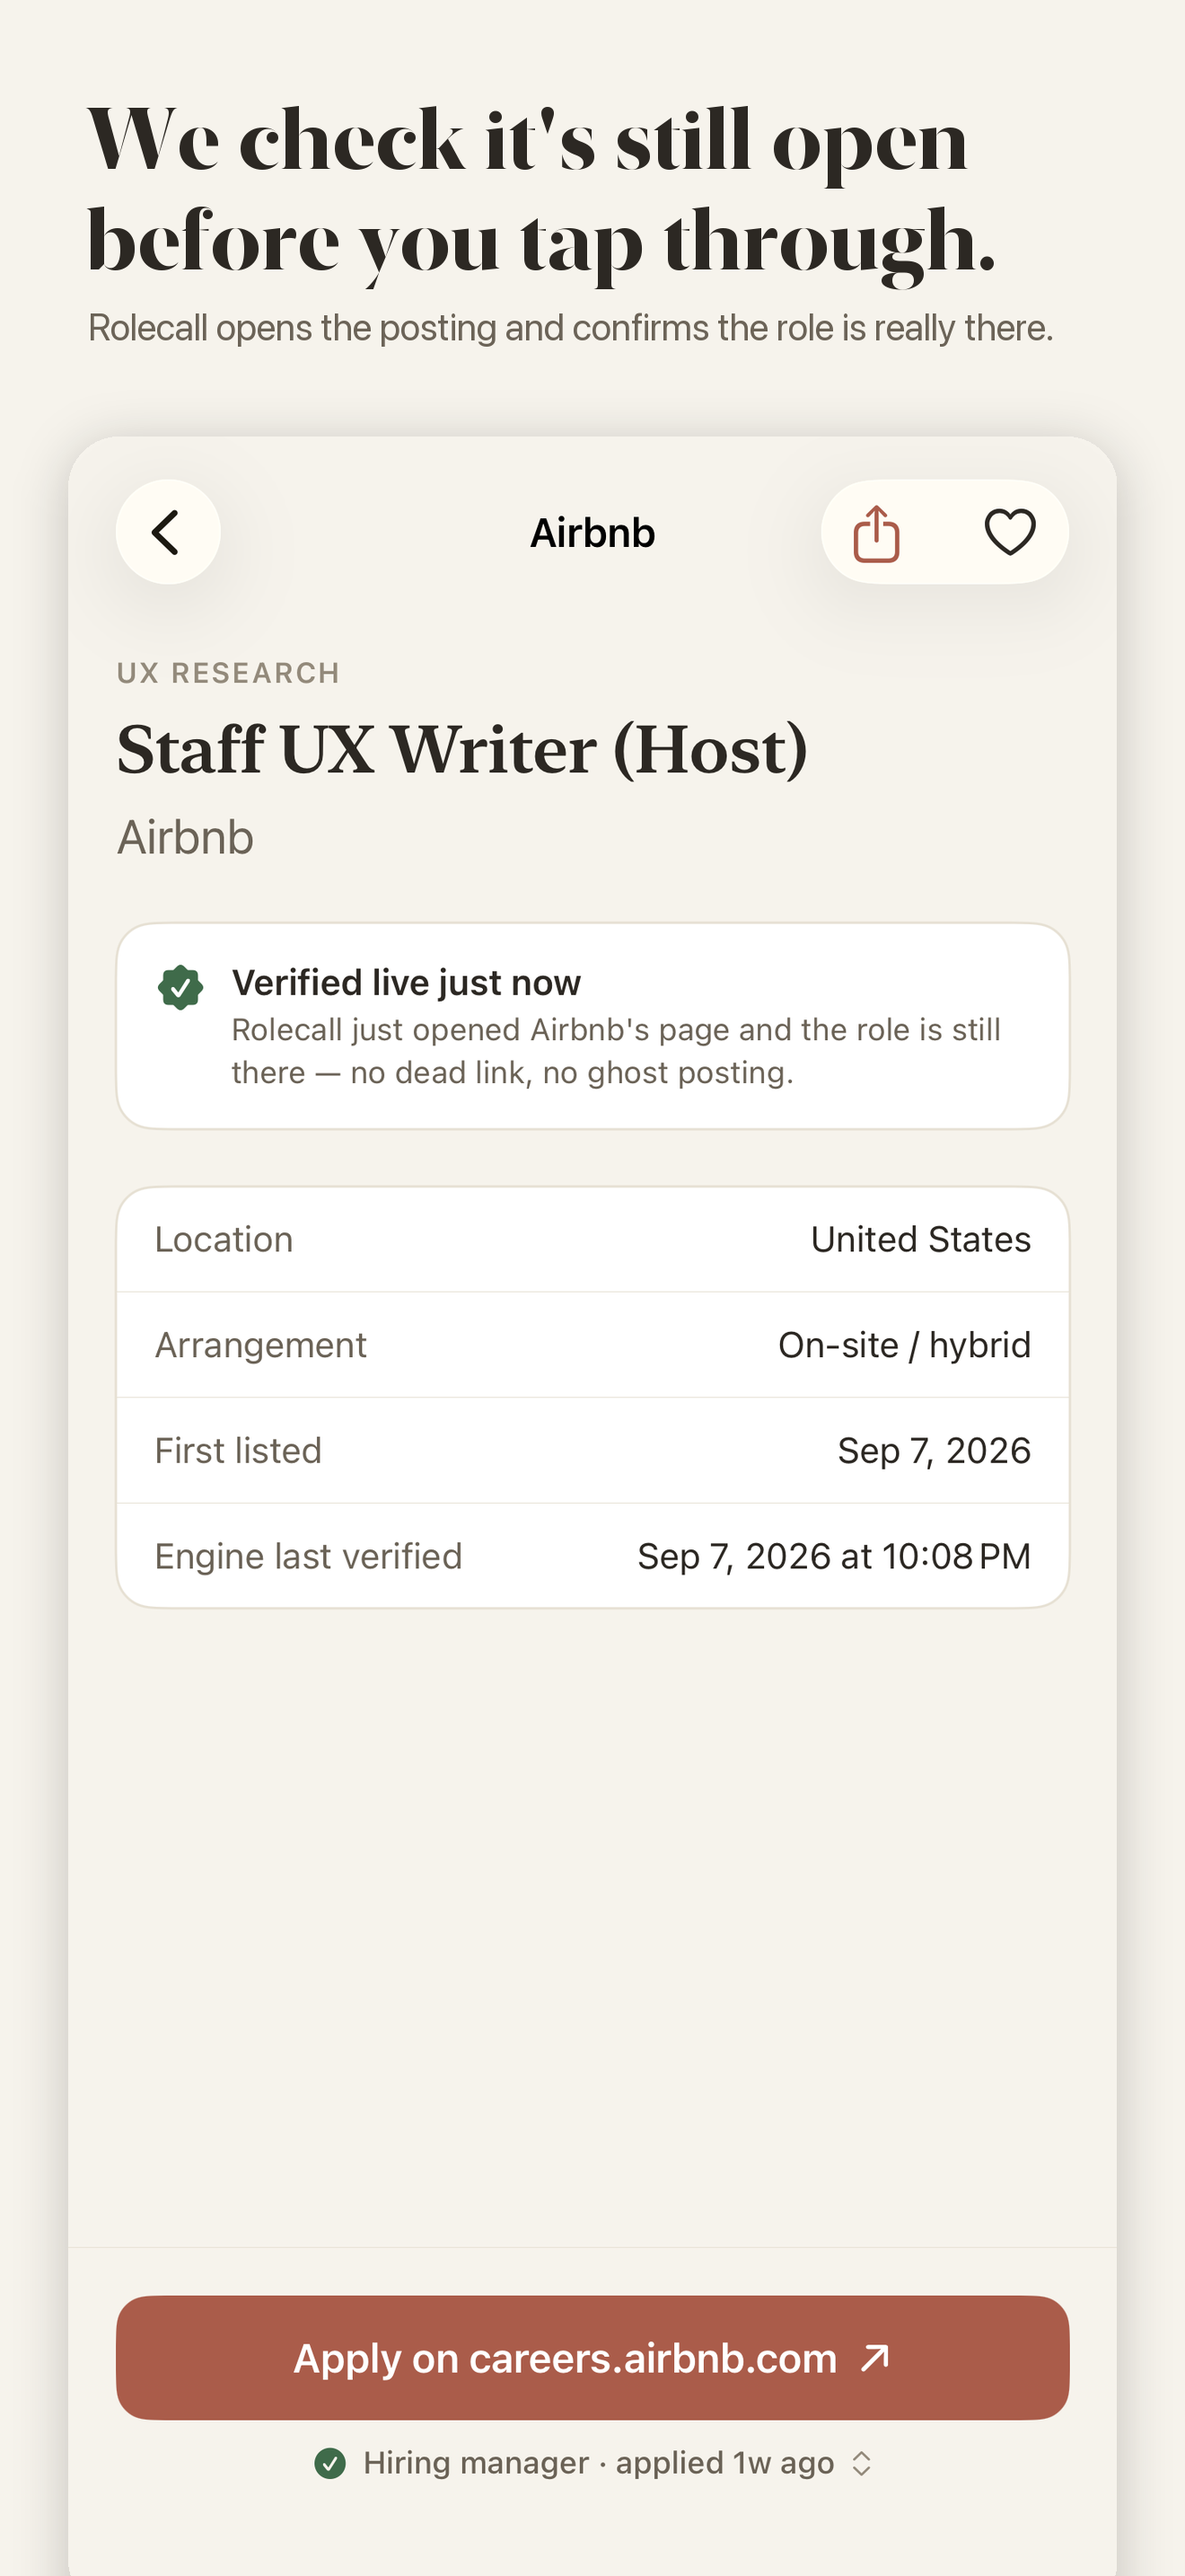
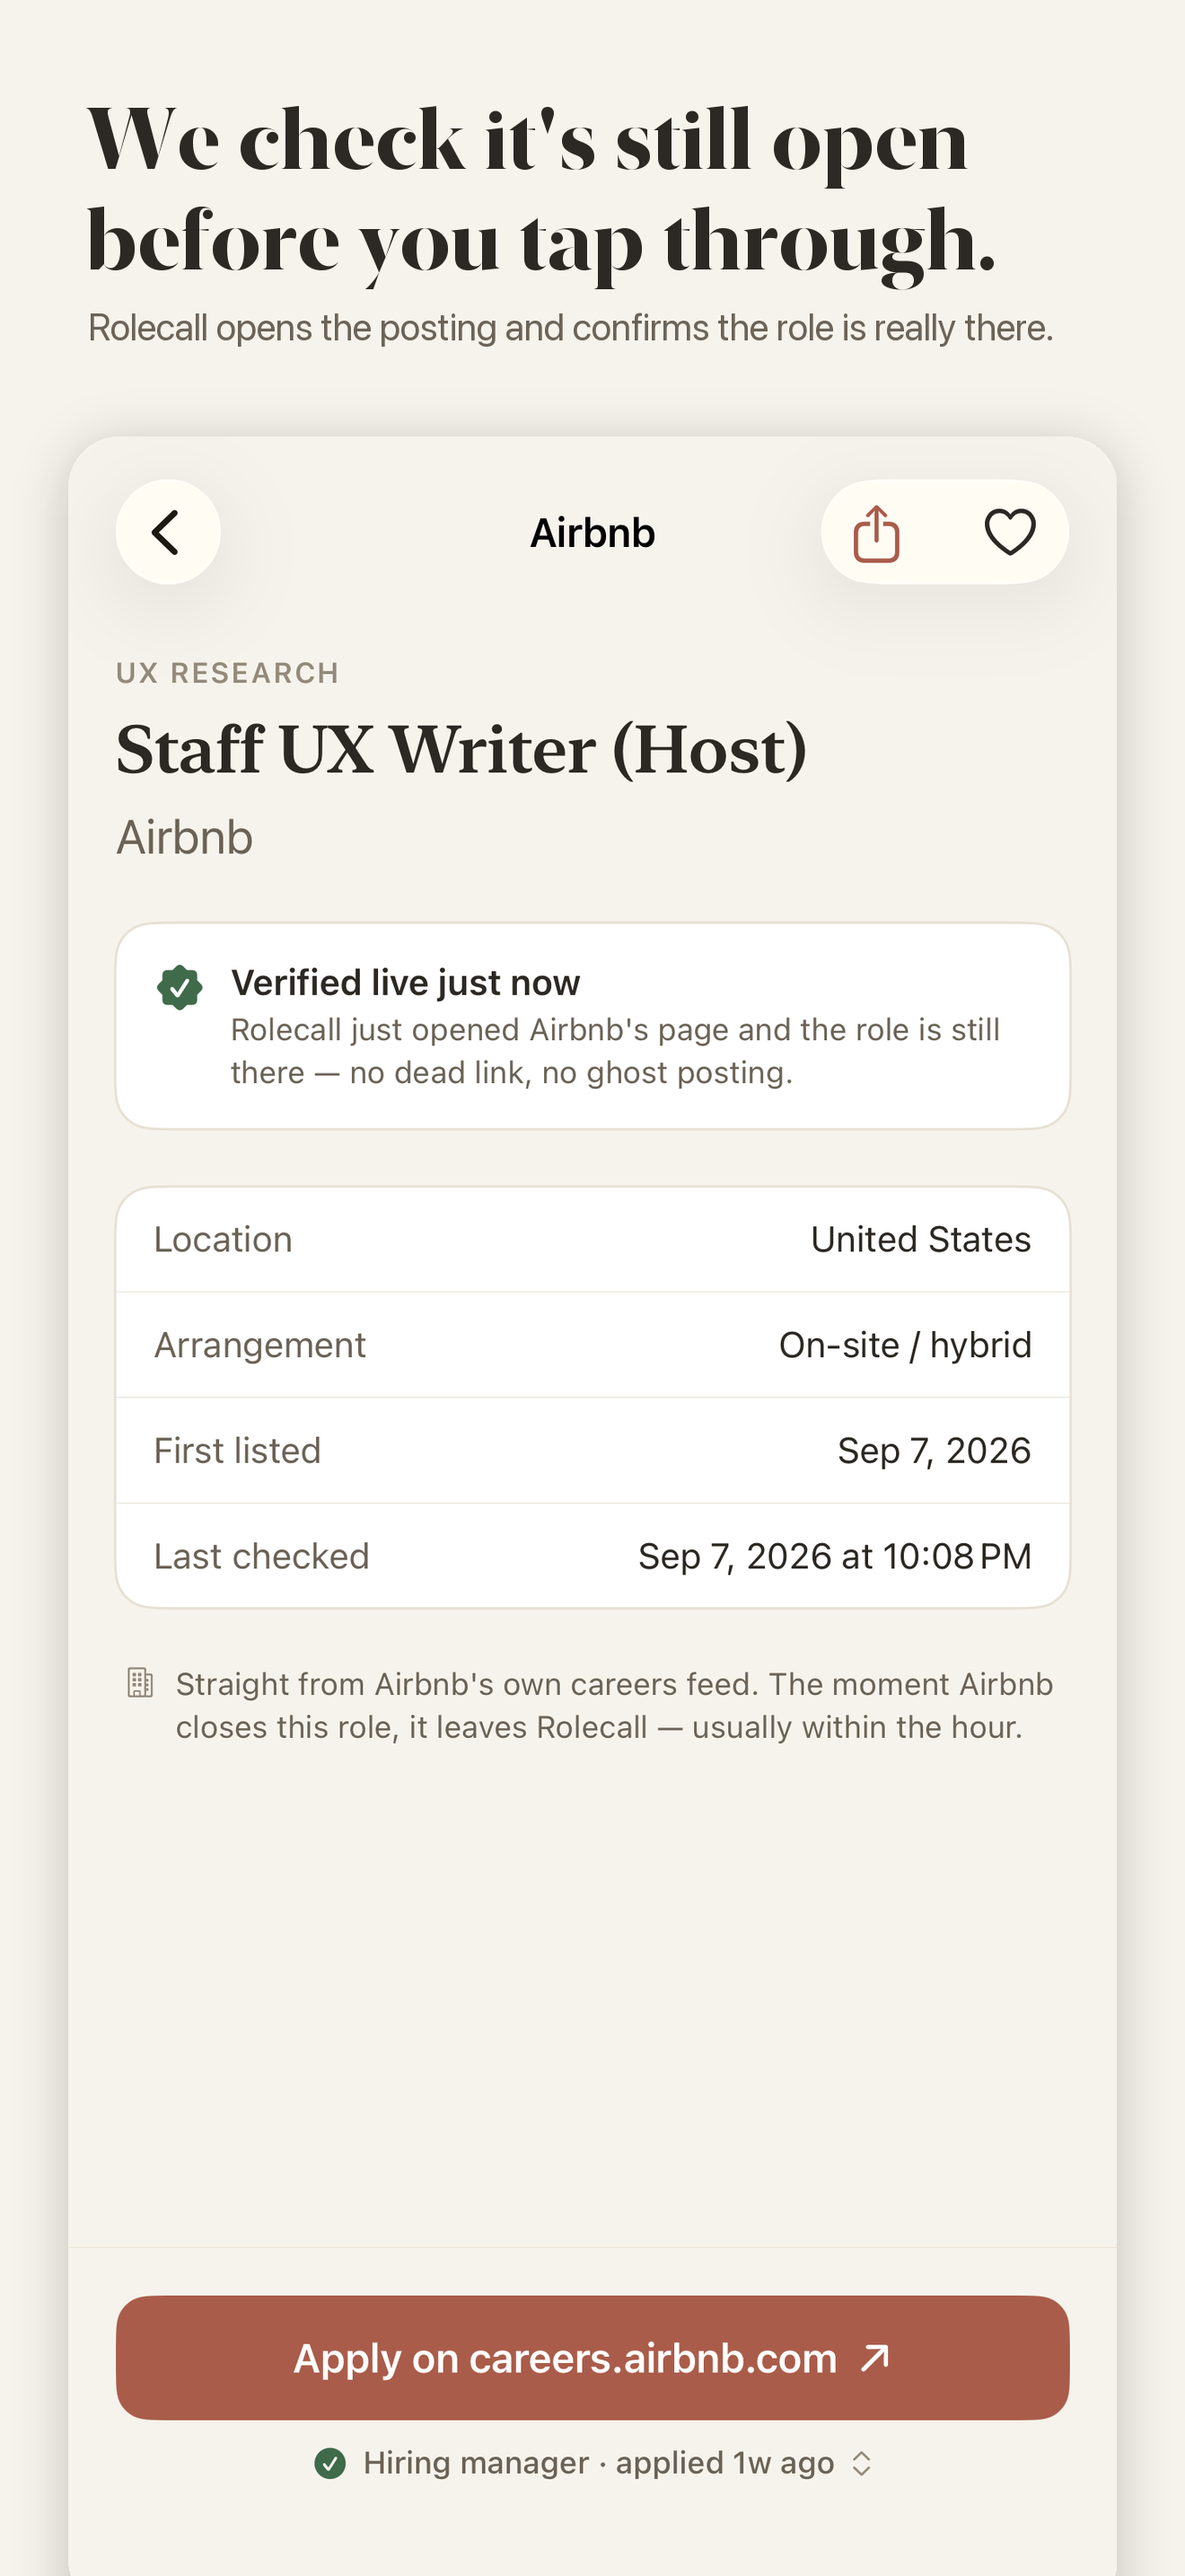
UI polish pass: quieter lists, contextual empties, source-of-truth note
A refinement pass on the reading experience, aligned to the calm-utility North
Star. No structural change; the heart stays as the save gesture.

- Saved / Applied lists no longer repeat the "saved" / "APPLIED" marker on
  every row — in those lists it's redundant. RoleRow gains showsStatusBadge
  (default true, so the board still flags roles you've touched). The stage
  line ("offer · 4d ago") already carries the status there.
- EmptyStateView takes a contextual icon: wifi.slash when the board is
  unreachable, text.magnifyingglass for a search miss, tray for no
  applications, and so on — instead of one generic dashed circle. Rendered
  hierarchical.
- RoleDetailView: a one-line "straight from {company}'s own careers feed …"
  note under the facts card — restates the board's promise on the page you act
  from, and fills the space a description-free listing leaves.
- De-jargoned "Engine last verified" -> "Last checked"; "the engine last saw
  this role" -> "Rolecall last confirmed this role".
- NEW badge is now a hairline capsule so it reads as a deliberate marker, not
  stray text; company name truncates rather than shoving the family tag
  off-screen at large Dynamic Type.
- Row dividers track the monogram tile as it scales with Dynamic Type
  (@ScaledMetric) instead of a fixed 53pt inset; Saved/Applied lists now match
  the board's text-aligned divider.
- Haptic on stage change in RoleDetailView (matches the board); apply-bar
[…]

diff --git a/ios/Rolecall/Views/RoleDetailView.swift b/ios/Rolecall/Views/RoleDetailView.swift
@@ -18,6 +18,7 @@ struct RoleDetailView: View {
                 titleBlock
                 freshnessBlock
                 factsBlock
+                sourceNote
                 Spacer(minLength: 8)
             }
             .padding(Theme.Metric.gutter)
@@ -121,7 +122,7 @@ struct RoleDetailView: View {
             factRow("First listed", role.firstSeen.formatted(date: .abbreviated, time: .omitted))
             if let verified = role.lastVerified {
                 Divider().overlay(Theme.Palette.hairline)
-                factRow("Engine last verified", verified.formatted(date: .abbreviated, time: .shortened))
+                factRow("Last checked", verified.formatted(date: .abbreviated, time: .shortened))
             }
         }
         .background(Theme.Palette.surface)
@@ -130,6 +131,23 @@ struct RoleDetailView: View {
             RoundedRectangle(cornerRadius: Theme.Metric.cardRadius, style: .continuous)
                 .stroke(Theme.Palette.hairline, lineWidth: 1)
         )
+    }
+
+    /// A quiet reminder of where this listing comes from and why it can be trusted —
+    /// the same promise the board makes, restated on the page you act from.
+    private var sourceNote: some View {
+        HStack(alignment: .top, spacing: 8) {
+            Image(systemName: "building.2")
+                .font(.caption2)
+                .foregroundStyle(Theme.Palette.inkTertiary)
+                .accessibilityHidden(true)
+            Text("Straight from \(role.company)'s own careers feed. The moment \(role.company) closes this role, it leaves Rolecall — usually within the hour.")
+                .font(.footnote)
+                .foregroundStyle(Theme.Palette.inkSecondary)
+                .fixedSize(horizontal: false, vertical: true)
+        }
+        .padding(.horizontal, 4)
+        .accessibilityElement(children: .combine)
     }
 
     private func factRow(_ label: String, _ value: String) -> some View {
@@ -210,7 +228,10 @@ struct RoleDetailView: View {
     private var stageBinding: Binding<ApplicationStage> {
         Binding(
             get: { status?.application?.stage ?? .applied },
-            set: { newStage in tracked.updateApplication(for: role) { $0.stage = newStage } }
+            set: { newStage in
+                Haptics.selection()
+                tracked.updateApplication(for: role) { $0.stage = newStage }
+            }
         )
     }
 
@@ -243,7 +264,8 @@ struct RoleDetailView: View {
         if known.contains(where: host.hasSuffix) {
             return role.company
         }
-        return host.replacingOccurrences(of: "www.", with: "")
+        let clean = host.replacingOccurrences(of: "www.", with: "")
+        return clean.contains(".") ? clean : "the company site"
     }
 
     private var statusIcon: String {
@@ -279,7 +301,7 @@ struct RoleDetailView: View {
         case .mayHaveClosed:
             return "The page 404'd or bounced to a careers index. Tap to check on the company site."
         case .couldNotCheck:
-            return "You may be offline. The engine last saw this role "
+            return "You may be offline. Rolecall last confirmed this role "
                 + Freshness.compactAgo(since: role.freshnessDate, relativeTo: now)
                 + ". Tap to check again."
         case .none:

diff --git a/ios/Rolecall/Views/RoleRow.swift b/ios/Rolecall/Views/RoleRow.swift
@@ -7,6 +7,10 @@ struct RoleRow: View {
     var now: Date = Date()
     var status: RoleStatus? = nil
     var isNew: Bool = false
+    /// The board shows a "saved" / "applied" marker so you can spot roles you've already
+    /// touched. In the Saved and Applied lists every row is that status, so the marker is
+    /// redundant noise — those lists pass `false`.
+    var showsStatusBadge: Bool = true
 
     @ScaledMetric(relativeTo: .body) private var vPadding: CGFloat = 15
     @ScaledMetric(relativeTo: .body) private var tile: CGFloat = 40
@@ -20,17 +24,26 @@ struct RoleRow: View {
                     if isNew {
                         Text("NEW")
                             .font(.caption2.weight(.bold))
-                            .foregroundStyle(Theme.Palette.accent)
                             .tracking(0.5)
+                            .foregroundStyle(Theme.Palette.accent)
+                            .padding(.horizontal, 5)
+                            .padding(.vertical, 1.5)
+                            .overlay(
+                                Capsule(style: .continuous)
+                                    .stroke(Theme.Palette.accent.opacity(0.35), lineWidth: 1)
+                            )
+                            .accessibilityHidden(true)
                     }
                     Text(role.company)
                         .font(.subheadline.weight(.semibold))
                         .foregroundStyle(Theme.Palette.inkSecondary)
+                        .lineLimit(1)
                     Spacer(minLength: 6)
-                    statusAccessory
+                    if showsStatusBadge { statusAccessory }
                     Text(role.family.shortLabel)
                         .font(.caption2.weight(.medium))
                         .foregroundStyle(Theme.Palette.inkTertiary)
+                        .fixedSize()
                 }
 
                 Text(role.title)

diff --git a/ios/Rolecall/Views/TrackedRolesView.swift b/ios/Rolecall/Views/TrackedRolesView.swift
@@ -11,6 +11,9 @@ struct TrackedRolesView: View {
     @EnvironmentObject private var tracked: TrackedRoles
     @State private var now = Date()
 
+    /// Matches RoleListView: divider starts where the row text starts.
+    @ScaledMetric(relativeTo: .body) private var monogramTile: CGFloat = 40
+
     private var roles: [Role] {
         let matching: (RoleStatus) -> Bool = kind == .saved ? \.isSaved : \.isApplied
         return tracked.roles(in: store.board, matching: matching)
@@ -29,19 +32,21 @@ struct TrackedRolesView: View {
     var body: some View {
         Group {
             if roles.isEmpty {
-                EmptyStateView(title: emptyTitle, message: emptyMessage)
+                EmptyStateView(title: emptyTitle, message: emptyMessage,
+                               icon: kind == .saved ? "heart" : "checkmark.circle")
                     .padding(.top, 40)
             } else {
                 LazyVStack(alignment: .leading, spacing: 0) {
                     ForEach(Array(roles.enumerated()), id: \.element.id) { index, role in
                         NavigationLink(value: role) {
-                            RoleRow(role: role, now: now, status: tracked.status(for: role))
+                            RoleRow(role: role, now: now, status: tracked.status(for: role),
+                                    showsStatusBadge: false)
                         }
                         .buttonStyle(.plain)
                         .contextMenu { RoleContextMenu(role: role) }
                         if index < roles.count - 1 {
                             Divider().overlay(Theme.Palette.hairline)
-                                .padding(.leading, Theme.Metric.gutter)
+                                .padding(.leading, Theme.Metric.gutter + monogramTile + 13)
                         }
                     }
                 }

diff --git a/ios/Rolecall/Views/RoleListView.swift b/ios/Rolecall/Views/RoleListView.swift
@@ -12,6 +12,10 @@ struct RoleListView: View {
     @Environment(\.scenePhase) private var scenePhase
     @Environment(\.accessibilityReduceMotion) private var reduceMotion
 
+    /// Aligns the between-row divider with the start of a row's text, tracking the
+    /// monogram tile as it grows with Dynamic Type (tile 40 + 13 spacing at default).
+    @ScaledMetric(relativeTo: .body) private var monogramTile: CGFloat = 40
+
     @State private var filter = RoleFilter.loadPersisted()
     @State private var query = ""
     @State private var showingFilter = false
@@ -110,6 +114,7 @@ struct RoleListView: View {
             EmptyStateView(
                 title: "No roles loaded yet",
                 message: "Rolecall couldn't reach the board. It fills in the moment you're back online.",
+                icon: "wifi.slash",
                 actionTitle: "Try again",
                 action: { Task { await refresh() } }
             )
@@ -129,6 +134,7 @@ struct RoleListView: View {
         EmptyStateView(
             title: emptyTitle,
             message: emptyMessage,
+            icon: query.isEmpty ? "line.3.horizontal.decrease" : "text.magnifyingglass",
             actionTitle: canClear ? "Clear" : nil,
             action: canClear ? { clearAll() } : nil
         )
@@ -149,7 +155,7 @@ struct RoleListView: View {
                 if index < roles.count - 1 {
                     Divider()
                         .overlay(Theme.Palette.hairline)
-                        .padding(.leading, Theme.Metric.gutter + 53)  // clears the monogram
+                        .padding(.leading, Theme.Metric.gutter + monogramTile + 13)  // clears the monogram
                 }
             }
         } header: {

diff --git a/ios/RolecallUITests/ScreenshotTests.swift b/ios/RolecallUITests/ScreenshotTests.swift
@@ -84,11 +84,14 @@ final class ScreenshotTests: XCTestCase {
             app.buttons["Board"].firstMatch.tap()
         }
 
-        // 4 — filter to your discipline
-        let filter = app.navigationBars.buttons["Filter"]
-        if filter.waitForExistence(timeout: 5) {
-            filter.tap()
-            _ = app.staticTexts["Role family"].waitForExistence(timeout: 5)
+        // 4 — filter to your discipline (the toolbar control is a menu)
+        let filterMenu = app.navigationBars.buttons["Filter and searches"]
+        if filterMenu.waitForExistence(timeout: 5) {
+            filterMenu.tap()
+            let filterItem = app.buttons["Filter"].firstMatch
+            if filterItem.waitForExistence(timeout: 3) { filterItem.tap() }
+            _ = app.buttons["Done"].waitForExistence(timeout: 5)   // the filter sheet is up
+            _ = app.staticTexts["US & remote only"].waitForExistence(timeout: 3)
             shot("04-filter")
             app.buttons["Done"].firstMatch.tap()
         }

diff --git a/ios/Rolecall/Views/EmptyStateView.swift b/ios/Rolecall/Views/EmptyStateView.swift
@@ -5,14 +5,18 @@ import SwiftUI
 struct EmptyStateView: View {
     let title: String
     let message: String
+    /// A quiet SF Symbol that names the situation — "text.magnifyingglass" for a search
+    /// that found nothing, "wifi.slash" when the board is unreachable, and so on.
+    var icon: String = "circle.dashed"
     var actionTitle: String? = nil
     var action: (() -> Void)? = nil
 
     var body: some View {
         VStack(spacing: 14) {
-            Image(systemName: "circle.dashed")
-                .font(.system(size: 34, weight: .light))
+            Image(systemName: icon)
+                .font(.system(size: 32, weight: .light))
                 .foregroundStyle(Theme.Palette.inkTertiary)
+                .symbolRenderingMode(.hierarchical)
                 .accessibilityHidden(true)
 
             Text(title)

diff --git a/ios/Rolecall/Views/SavedSearchesView.swift b/ios/Rolecall/Views/SavedSearchesView.swift
@@ -18,7 +18,8 @@ struct SavedSearchesView: View {
             if searches.searches.isEmpty {
                 EmptyStateView(
                     title: "No saved searches",
-                    message: "From the board, set a filter and choose “Save this search”."
+                    message: "From the board, set a filter and choose “Save this search”.",
+                    icon: "bookmark"
                 )
             } else {
                 List {

diff --git a/ios/Rolecall/Views/AppliedReportView.swift b/ios/Rolecall/Views/AppliedReportView.swift
@@ -22,7 +22,8 @@ struct AppliedReportView: View {
             if entries.isEmpty {
                 EmptyStateView(
                     title: "No applications yet",
-                    message: "When you apply to a role, mark it applied to track it here."
+                    message: "When you apply to a role, mark it applied to track it here.",
+                    icon: "tray"
                 )
             } else {
                 List {

diff --git a/ios/Rolecall/Views/RefreshBanner.swift b/ios/Rolecall/Views/RefreshBanner.swift
@@ -15,7 +15,7 @@ struct RefreshBanner: View {
                     Theme.Palette.verified)
         case .unreachable:
             return ("wifi.slash",
-                    "Couldn't refresh — showing saved roles",
+                    "Couldn't refresh — showing the last update",
                     Theme.Palette.inkSecondary)
         default:
             return nil
